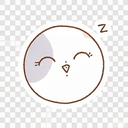
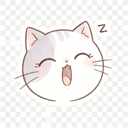
修复悬浮新建按钮跟随页面滚动：改挂 body 并浮于底部导航上方
- 根因：#screen 带 transform（go() 里页面切换动画 translateY(8px)->0，动画结束后 transform 仍在），
  会成为 position:fixed 的包含块，使 .jn-fab 相对 #screen 定位而跟随滚动，不再固定在视口底部
- 修复：FAB 由 #screen 内改为挂到 document.body（与底部 .nav 平级，不受 #screen transform 影响）
- 清理：在 go() 路由分发前 + renderModule 重渲染前各移除一次 body 直属 .jn-fab，
  避免切走模块后残留、以及模块内重渲染（如选心情）导致重复叠加
- 位置：bottom 由 18px 改为 calc(var(--nav-h) + 16px + env(safe-area-inset-bottom))，
  浮在 72px 高的底部导航上方 16px，不遮挡导航项（沿用 .cal-toast 惯例）
- 贴纸：mood-sleepy.png 被外部进程换成 1024x1024 后按约定缩至 128x128（保留新美术，不恢复旧图）

验证：滚动 500px 前后 FAB 视口坐标漂移 0px；FAB 底边 756 < 导航顶边 772；
点击直达编辑态；模块内重渲染仍为 1 个；切到首页为 0 个；切回笔记恢复 1 个

diff --git a/index.html b/index.html
@@ -1257,12 +1257,12 @@
   .jn-mood-clear { display: block; width: 100%; margin-top: 14px; padding: 10px; border: 1px dashed #D8CBB4;
     background: transparent; border-radius: 999px; color: #9C8B7A; font-size: 12px; cursor: pointer; }
   /* 悬浮新建 */
-  .jn-fab { position: fixed; right: 18px; bottom: calc(18px + env(safe-area-inset-bottom)); z-index: 40;
+  .jn-fab { position: fixed; right: 18px; bottom: calc(var(--nav-h) + 16px + env(safe-area-inset-bottom)); z-index: 40;
     width: 52px; height: 52px; border-radius: 50%; border: 1px solid #D8CBB4; background: #FBF8F1;
     color: #5C4A3A; display: grid; place-items: center; box-shadow: 0 3px 10px rgba(61,50,38,.12);
     cursor: pointer; transition: transform .12s, box-shadow .15s; }
   .jn-fab:active { transform: scale(.92); box-shadow: 0 1px 5px rgba(61,50,38,.10); }
-  @media (min-width: 720px){ .jn-fab { right: 26px; bottom: 26px; } }
+  @media (min-width: 720px){ .jn-fab { right: 26px; bottom: calc(var(--nav-h) + 20px + env(safe-area-inset-bottom)); } }
 
   /* ============================================================
      灵感备忘 · weeks 时间轴（真实手账本 weeks 版式：日期左栏 + 圆点条目，无胶带/回形针）
@@ -3227,8 +3227,11 @@ function renderModule(key, append){
     <div style="margin-top:16px">${head}${extra}
       ${filterBar}
       <div class="sec-title">记录</div>${body}</div>`;
+  // FAB 必须挂到 body：#screen 带 transform（页面切换动画 translateY(8px)->0），会成为
+  // position:fixed 的包含块，使 FAB 相对 #screen 定位而跟随滚动，不再固定在视口底部
+  document.querySelectorAll('body > .jn-fab').forEach(el => el.remove());
   if(m.type === 'note' && auth.canEdit(key)){
-    $("#screen").insertAdjacentHTML('beforeend', `<button class="jn-fab" id="btn-add">${icon('plus',22,2.2)}</button>`);
+    document.body.insertAdjacentHTML('beforeend', `<button class="jn-fab" id="btn-add">${icon('plus',22,2.2)}</button>`);
   }
 
   // 列表懒加载：首屏 30 条，滚动到底的哨兵触发再追加 30 条（避免一次性渲染大量带图记录）
@@ -4205,6 +4208,7 @@ function render(){
     el.classList.toggle("active", view === k);
   });
   // render body
+  document.querySelectorAll('body > .jn-fab').forEach(el => el.remove()); // 切走时清掉悬浮按钮
   if(view==="home") renderHome();
   else if(view==="game") renderGame();
   else if(view==="users") renderUsers();
